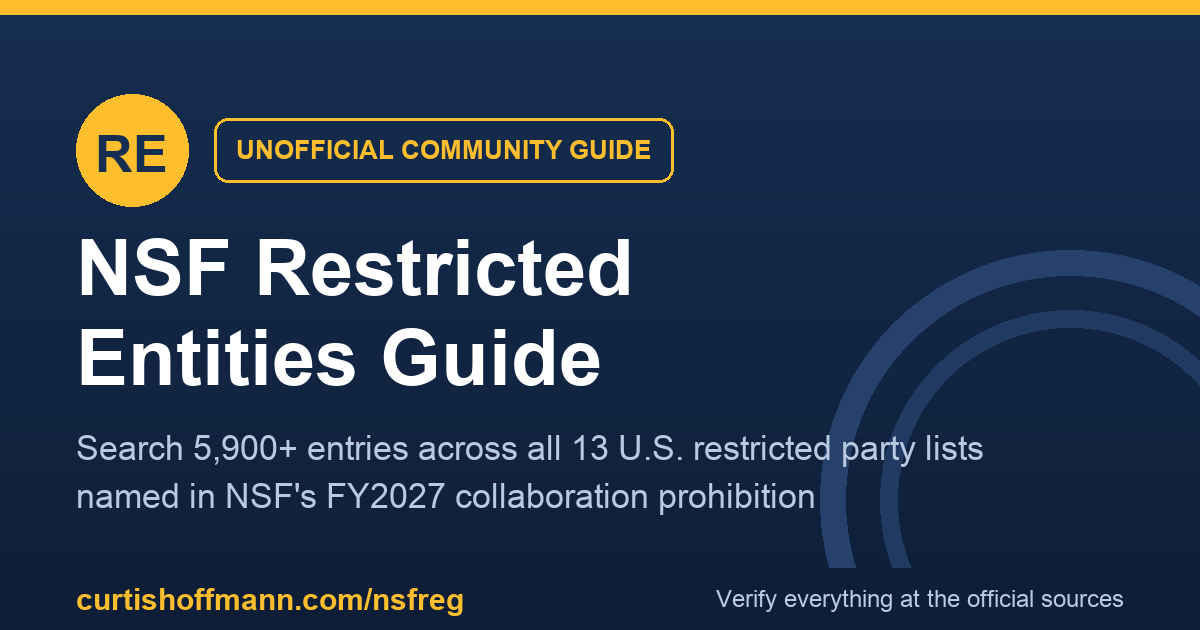
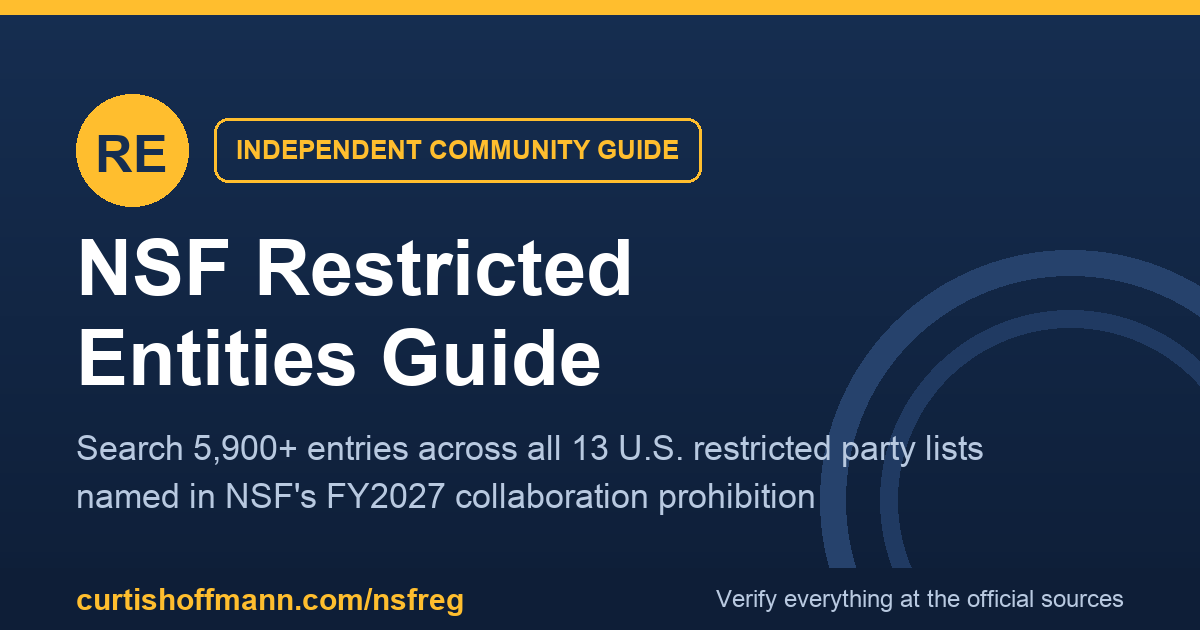
Replace 'unofficial' with 'independent' sitewide; regenerate OG card

Changed region(s): [[0.185, 0.181, 0.5858, 0.3016]]

diff --git a/about.html b/about.html
@@ -3,8 +3,8 @@
 <head>
 <meta charset="utf-8">
 <meta name="viewport" content="width=device-width, initial-scale=1">
-<title>About &amp; Data — NSF Prohibition Guide (Unofficial)</title>
-<meta name="description" content="How this unofficial guide was built: per-list snapshot dates, extraction methodology, known limitations, and the official sources every result should be verified against.">
+<title>About &amp; Data — NSF Prohibition Guide (Independent)</title>
+<meta name="description" content="How this independent guide was built: per-list snapshot dates, extraction methodology, known limitations, and the official sources every result should be verified against.">
 <link rel="stylesheet" href="assets/styles.css?v=20260710b">
 <link rel="canonical" href="https://curtishoffmann.com/nsfreg/about.html">
 <meta name="author" content="Curtis Hoffmann">
@@ -12,15 +12,15 @@
 <meta property="og:type" content="website">
 <meta property="og:url" content="https://curtishoffmann.com/nsfreg/about.html">
 <meta property="og:title" content="About the NSF Restricted Entities Guide — data & methodology">
-<meta property="og:description" content="How this unofficial guide was built: per-list snapshot dates, extraction methodology, known limitations, and the official sources every result should be verified against.">
+<meta property="og:description" content="How this independent guide was built: per-list snapshot dates, extraction methodology, known limitations, and the official sources every result should be verified against.">
 <meta property="og:image" content="https://curtishoffmann.com/nsfreg/assets/og-card.png">
 <meta property="og:image:width" content="1200">
 <meta property="og:image:height" content="630">
 <meta property="og:image:alt" content="NSF Restricted Entities Guide — search 5,900+ entries across all 13 U.S. restricted party lists">
-<meta property="og:site_name" content="NSF Restricted Entities Guide (Unofficial)">
+<meta property="og:site_name" content="NSF Restricted Entities Guide (Independent)">
 <meta name="twitter:card" content="summary_large_image">
 <meta name="twitter:title" content="About the NSF Restricted Entities Guide — data & methodology">
-<meta name="twitter:description" content="How this unofficial guide was built: per-list snapshot dates, extraction methodology, known limitations, and the official sources every result should be verified against.">
+<meta name="twitter:description" content="How this independent guide was built: per-list snapshot dates, extraction methodology, known limitations, and the official sources every result should be verified against.">
 <meta name="twitter:image" content="https://curtishoffmann.com/nsfreg/assets/og-card.png">
 <link rel="icon" href="assets/favicon.svg" type="image/svg+xml">
 <link rel="icon" href="assets/favicon-32.png" sizes="32x32" type="image/png">
@@ -59,7 +59,7 @@
 <div class="page-head">
   <div class="wrap">
     <h1>About this site &amp; its data</h1>
-    <p>An unofficial guide built to make one tedious thing easy: understanding which entities fall under NSF's forthcoming collaboration prohibition, and where the authoritative answers live.</p>
+    <p>An independent guide built to make one tedious thing easy: understanding which entities fall under NSF's forthcoming collaboration prohibition, and where the authoritative answers live.</p>
   </div>
 </div>
 
@@ -115,7 +115,7 @@
     <div class="cols">
       <div>
         <h2>About this site</h2>
-        <p>An unofficial, community-built guide to help NSF-affiliated researchers and administrators understand and prepare for NSF's forthcoming prohibition on collaborations with restricted entities. Not affiliated with, or endorsed by, the U.S. National Science Foundation or any federal agency. Nothing here is legal advice.</p>
+        <p>A community-built guide to help NSF-affiliated researchers and administrators understand and prepare for NSF's forthcoming prohibition on collaborations with restricted entities. Not affiliated with, or endorsed by, the U.S. National Science Foundation or any federal agency. Nothing here is legal advice.</p>
         <p>Project led by <a href="https://curtishoffmann.com" target="_blank" rel="noopener">Curtis Hoffmann</a>.</p>
       </div>
       <div>

diff --git a/index.html b/index.html
@@ -3,7 +3,7 @@
 <head>
 <meta charset="utf-8">
 <meta name="viewport" content="width=device-width, initial-scale=1">
-<title>Search Restricted Entities — NSF Prohibition Guide (Unofficial)</title>
+<title>Search Restricted Entities — NSF Prohibition Guide (Independent)</title>
 <meta name="description" content="Free searchable guide to the U.S. restricted party lists in NSF's July 2026 Dear Colleague Letter. Check collaborators, appointments, and funders across 5,900+ entries from the Entity List, Sec. 1260H, UFLPA, and more.">
 <link rel="stylesheet" href="assets/styles.css?v=20260710b">
 <link rel="canonical" href="https://curtishoffmann.com/nsfreg/">
@@ -17,7 +17,7 @@
 <meta property="og:image:width" content="1200">
 <meta property="og:image:height" content="630">
 <meta property="og:image:alt" content="NSF Restricted Entities Guide — search 5,900+ entries across all 13 U.S. restricted party lists">
-<meta property="og:site_name" content="NSF Restricted Entities Guide (Unofficial)">
+<meta property="og:site_name" content="NSF Restricted Entities Guide (Independent)">
 <meta name="twitter:card" content="summary_large_image">
 <meta name="twitter:title" content="NSF Restricted Entities Guide — search all 13 U.S. restricted party lists">
 <meta name="twitter:description" content="Free searchable guide to the U.S. restricted party lists in NSF's July 2026 Dear Colleague Letter. Check collaborators, appointments, and funders across 5,900+ entries from the Entity List, Sec. 1260H, UFLPA, and more.">
@@ -30,9 +30,9 @@
 {
   "@context": "https://schema.org",
   "@type": "WebSite",
-  "name": "NSF Restricted Entities Guide (Unofficial)",
+  "name": "NSF Restricted Entities Guide (Independent)",
   "url": "https://curtishoffmann.com/nsfreg/",
-  "description": "Unofficial searchable guide to the U.S. restricted party lists covered by NSF's July 2026 prohibition on collaborations with restricted entities.",
+  "description": "Independent searchable guide to the U.S. restricted party lists covered by NSF's July 2026 prohibition on collaborations with restricted entities.",
   "author": {"@type": "Person", "name": "Curtis Hoffmann", "url": "https://curtishoffmann.com"},
   "potentialAction": {
     "@type": "SearchAction",
@@ -130,7 +130,7 @@
     <div class="cols">
       <div>
         <h2>About this site</h2>
-        <p>An unofficial, community-built guide to help NSF-affiliated researchers and administrators understand and prepare for NSF's forthcoming prohibition on collaborations with restricted entities. Not affiliated with, or endorsed by, the U.S. National Science Foundation or any federal agency. Nothing here is legal advice.</p>
+        <p>A community-built guide to help NSF-affiliated researchers and administrators understand and prepare for NSF's forthcoming prohibition on collaborations with restricted entities. Not affiliated with, or endorsed by, the U.S. National Science Foundation or any federal agency. Nothing here is legal advice.</p>
         <p>Project led by <a href="https://curtishoffmann.com" target="_blank" rel="noopener">Curtis Hoffmann</a>.</p>
       </div>
       <div>

diff --git a/faq.html b/faq.html
@@ -3,7 +3,7 @@
 <head>
 <meta charset="utf-8">
 <meta name="viewport" content="width=device-width, initial-scale=1">
-<title>FAQ — NSF Prohibition Guide (Unofficial)</title>
+<title>FAQ — NSF Prohibition Guide (Independent)</title>
 <meta name="description" content="When does NSF's restricted-entity prohibition take effect? What counts as collaboration? What must be certified? Plain-language answers for NSF-funded researchers and administrators.">
 <link rel="stylesheet" href="assets/styles.css?v=20260710b">
 <link rel="canonical" href="https://curtishoffmann.com/nsfreg/faq.html">
@@ -17,7 +17,7 @@
 <meta property="og:image:width" content="1200">
 <meta property="og:image:height" content="630">
 <meta property="og:image:alt" content="NSF Restricted Entities Guide — search 5,900+ entries across all 13 U.S. restricted party lists">
-<meta property="og:site_name" content="NSF Restricted Entities Guide (Unofficial)">
+<meta property="og:site_name" content="NSF Restricted Entities Guide (Independent)">
 <meta name="twitter:card" content="summary_large_image">
 <meta name="twitter:title" content="NSF restricted entities prohibition — FAQ for researchers">
 <meta name="twitter:description" content="When does NSF's restricted-entity prohibition take effect? What counts as collaboration? What must be certified? Plain-language answers for NSF-funded researchers and administrators.">
@@ -173,7 +173,7 @@
 
     <details class="faq">
       <summary>Is this site affiliated with NSF?</summary>
-      <div class="body"><p><strong>No.</strong> This is an unofficial, community-built guide. It exists because checking 13 lists across 7 agencies is genuinely tedious, and researchers deserve a fast way to orient themselves. The official word is always the <a href="https://www.nsf.gov/funding/information/dcl-prohibition-collaborations-entities-us-prohibited-party" target="_blank" rel="noopener">DCL</a>, the forthcoming guidance, and the list-owning agencies. See <a href="about.html">About &amp; Data</a> for how this site is built and its limitations.</p></div>
+      <div class="body"><p><strong>No.</strong> This is an independent, community-built guide. It exists because checking 13 lists across 7 agencies is genuinely tedious, and researchers deserve a fast way to orient themselves. The official word is always the <a href="https://www.nsf.gov/funding/information/dcl-prohibition-collaborations-entities-us-prohibited-party" target="_blank" rel="noopener">DCL</a>, the forthcoming guidance, and the list-owning agencies. See <a href="about.html">About &amp; Data</a> for how this site is built and its limitations.</p></div>
     </details>
 
   </div>
@@ -184,7 +184,7 @@
     <div class="cols">
       <div>
         <h2>About this site</h2>
-        <p>An unofficial, community-built guide to help NSF-affiliated researchers and administrators understand and prepare for NSF's forthcoming prohibition on collaborations with restricted entities. Not affiliated with, or endorsed by, the U.S. National Science Foundation or any federal agency. Nothing here is legal advice.</p>
+        <p>A community-built guide to help NSF-affiliated researchers and administrators understand and prepare for NSF's forthcoming prohibition on collaborations with restricted entities. Not affiliated with, or endorsed by, the U.S. National Science Foundation or any federal agency. Nothing here is legal advice.</p>
         <p>Project led by <a href="https://curtishoffmann.com" target="_blank" rel="noopener">Curtis Hoffmann</a>.</p>
       </div>
       <div>

diff --git a/checklist.html b/checklist.html
@@ -3,7 +3,7 @@
 <head>
 <meta charset="utf-8">
 <meta name="viewport" content="width=device-width, initial-scale=1">
-<title>Compliance Checklist — NSF Prohibition Guide (Unofficial)</title>
+<title>Compliance Checklist — NSF Prohibition Guide (Independent)</title>
 <meta name="description" content="Step-by-step preparation checklists for PIs, senior/key personnel, and research administrators ahead of NSF's FY2027 prohibition on collaborations with restricted entities.">
 <link rel="stylesheet" href="assets/styles.css?v=20260710b">
 <link rel="canonical" href="https://curtishoffmann.com/nsfreg/checklist.html">
@@ -17,7 +17,7 @@
 <meta property="og:image:width" content="1200">
 <meta property="og:image:height" content="630">
 <meta property="og:image:alt" content="NSF Restricted Entities Guide — search 5,900+ entries across all 13 U.S. restricted party lists">
-<meta property="og:site_name" content="NSF Restricted Entities Guide (Unofficial)">
+<meta property="og:site_name" content="NSF Restricted Entities Guide (Independent)">
 <meta name="twitter:card" content="summary_large_image">
 <meta name="twitter:title" content="Compliance checklist for NSF's FY2027 restricted-entity prohibition">
 <meta name="twitter:description" content="Step-by-step preparation checklists for PIs, senior/key personnel, and research administrators ahead of NSF's FY2027 prohibition on collaborations with restricted entities.">
@@ -184,7 +184,7 @@
     <div class="cols">
       <div>
         <h2>About this site</h2>
-        <p>An unofficial, community-built guide to help NSF-affiliated researchers and administrators understand and prepare for NSF's forthcoming prohibition on collaborations with restricted entities. Not affiliated with, or endorsed by, the U.S. National Science Foundation or any federal agency. Nothing here is legal advice.</p>
+        <p>A community-built guide to help NSF-affiliated researchers and administrators understand and prepare for NSF's forthcoming prohibition on collaborations with restricted entities. Not affiliated with, or endorsed by, the U.S. National Science Foundation or any federal agency. Nothing here is legal advice.</p>
         <p>Project led by <a href="https://curtishoffmann.com" target="_blank" rel="noopener">Curtis Hoffmann</a>.</p>
       </div>
       <div>

diff --git a/lists.html b/lists.html
@@ -3,7 +3,7 @@
 <head>
 <meta charset="utf-8">
 <meta name="viewport" content="width=device-width, initial-scale=1">
-<title>The 13 Restricted Party Lists — NSF Prohibition Guide (Unofficial)</title>
+<title>The 13 Restricted Party Lists — NSF Prohibition Guide (Independent)</title>
 <meta name="description" content="Plain-language explainers for every restricted party list in Appendix A of NSF's DCL: legal basis, maintaining agency, what entities appear, and links to the authoritative sources.">
 <link rel="stylesheet" href="assets/styles.css?v=20260710b">
 <link rel="canonical" href="https://curtishoffmann.com/nsfreg/lists.html">
@@ -17,7 +17,7 @@
 <meta property="og:image:width" content="1200">
 <meta property="og:image:height" content="630">
 <meta property="og:image:alt" content="NSF Restricted Entities Guide — search 5,900+ entries across all 13 U.S. restricted party lists">
-<meta property="og:site_name" content="NSF Restricted Entities Guide (Unofficial)">
+<meta property="og:site_name" content="NSF Restricted Entities Guide (Independent)">
 <meta name="twitter:card" content="summary_large_image">
 <meta name="twitter:title" content="The 13 U.S. restricted party lists in NSF's prohibition, one by one">
 <meta name="twitter:description" content="Plain-language explainers for every restricted party list in Appendix A of NSF's DCL: legal basis, maintaining agency, what entities appear, and links to the authoritative sources.">
@@ -85,7 +85,7 @@
     <div class="cols">
       <div>
         <h2>About this site</h2>
-        <p>An unofficial, community-built guide to help NSF-affiliated researchers and administrators understand and prepare for NSF's forthcoming prohibition on collaborations with restricted entities. Not affiliated with, or endorsed by, the U.S. National Science Foundation or any federal agency. Nothing here is legal advice.</p>
+        <p>A community-built guide to help NSF-affiliated researchers and administrators understand and prepare for NSF's forthcoming prohibition on collaborations with restricted entities. Not affiliated with, or endorsed by, the U.S. National Science Foundation or any federal agency. Nothing here is legal advice.</p>
         <p>Project led by <a href="https://curtishoffmann.com" target="_blank" rel="noopener">Curtis Hoffmann</a>.</p>
       </div>
       <div>

diff --git a/policy.html b/policy.html
@@ -3,7 +3,7 @@
 <head>
 <meta charset="utf-8">
 <meta name="viewport" content="width=device-width, initial-scale=1">
-<title>The Policy, Explained — NSF Prohibition Guide (Unofficial)</title>
+<title>The Policy, Explained — NSF Prohibition Guide (Independent)</title>
 <meta name="description" content="What NSF's July 8, 2026 Dear Colleague Letter prohibits, who it applies to, what AORs and senior/key personnel must certify, and the key FY2027 dates — explained for researchers.">
 <link rel="stylesheet" href="assets/styles.css?v=20260710b">
 <link rel="canonical" href="https://curtishoffmann.com/nsfreg/policy.html">
@@ -17,7 +17,7 @@
 <meta property="og:image:width" content="1200">
 <meta property="og:image:height" content="630">
 <meta property="og:image:alt" content="NSF Restricted Entities Guide — search 5,900+ entries across all 13 U.S. restricted party lists">
-<meta property="og:site_name" content="NSF Restricted Entities Guide (Unofficial)">
+<meta property="og:site_name" content="NSF Restricted Entities Guide (Independent)">
 <meta name="twitter:card" content="summary_large_image">
 <meta name="twitter:title" content="NSF's FY2027 restricted-entity prohibition, explained in plain language">
 <meta name="twitter:description" content="What NSF's July 8, 2026 Dear Colleague Letter prohibits, who it applies to, what AORs and senior/key personnel must certify, and the key FY2027 dates — explained for researchers.">
@@ -164,7 +164,7 @@
     <div class="cols">
       <div>
         <h2>About this site</h2>
-        <p>An unofficial, community-built guide to help NSF-affiliated researchers and administrators understand and prepare for NSF's forthcoming prohibition on collaborations with restricted entities. Not affiliated with, or endorsed by, the U.S. National Science Foundation or any federal agency. Nothing here is legal advice.</p>
+        <p>A community-built guide to help NSF-affiliated researchers and administrators understand and prepare for NSF's forthcoming prohibition on collaborations with restricted entities. Not affiliated with, or endorsed by, the U.S. National Science Foundation or any federal agency. Nothing here is legal advice.</p>
         <p>Project led by <a href="https://curtishoffmann.com" target="_blank" rel="noopener">Curtis Hoffmann</a>.</p>
       </div>
       <div>

diff --git a/pipeline/apply_site_updates.py b/pipeline/apply_site_updates.py
@@ -36,7 +36,7 @@ PAGES = {
     },
     "about.html": {
         "og_title": "About the NSF Restricted Entities Guide — data & methodology",
-        "desc": "How this unofficial guide was built: per-list snapshot dates, extraction methodology, known limitations, and the official sources every result should be verified against.",
+        "desc": "How this independent guide was built: per-list snapshot dates, extraction methodology, known limitations, and the official sources every result should be verified against.",
     },
 }
 
@@ -79,9 +79,9 @@ JSONLD_INDEX = """<script type="application/ld+json">
 {
   "@context": "https://schema.org",
   "@type": "WebSite",
-  "name": "NSF Restricted Entities Guide (Unofficial)",
+  "name": "NSF Restricted Entities Guide (Independent)",
   "url": "%s/",
-  "description": "Unofficial searchable guide to the U.S. restricted party lists covered by NSF's July 2026 prohibition on collaborations with restricted entities.",
+  "description": "Independent searchable guide to the U.S. restricted party lists covered by NSF's July 2026 prohibition on collaborations with restricted entities.",
   "author": {"@type": "Person", "name": "Curtis Hoffmann", "url": "https://curtishoffmann.com"},
   "potentialAction": {
     "@type": "SearchAction",
@@ -106,7 +106,7 @@ def head_block(page, cfg):
         '<meta property="og:image:width" content="1200">',
         '<meta property="og:image:height" content="630">',
         '<meta property="og:image:alt" content="NSF Restricted Entities Guide — search 5,900+ entries across all 13 U.S. restricted party lists">',
-        '<meta property="og:site_name" content="NSF Restricted Entities Guide (Unofficial)">',
+        '<meta property="og:site_name" content="NSF Restricted Entities Guide (Independent)">',
         '<meta name="twitter:card" content="summary_large_image">',
         f'<meta name="twitter:title" content="{cfg["og_title"]}">',
         f'<meta name="twitter:description" content="{cfg["desc"]}">',

diff --git a/pipeline/build_assets.py b/pipeline/build_assets.py
@@ -84,11 +84,11 @@ def make_og_card(out):
     d.ellipse((cx - r, cy - r, cx + r, cy + r), fill=GOLD)
     d.text((cx, cy + 4), "RE", font=font(FONT_BOLD, 52), fill=NAVY, anchor="mm")
 
-    # unofficial tag
+    # independent tag
     tag_f = font(FONT_BOLD, 26)
-    tw = d.textlength("UNOFFICIAL COMMUNITY GUIDE", font=tag_f)
+    tw = d.textlength("INDEPENDENT COMMUNITY GUIDE", font=tag_f)
     d.rounded_rectangle((214, 118, 214 + tw + 44, 182), radius=14, outline=GOLD, width=3)
-    d.text((214 + 22, 150), "UNOFFICIAL COMMUNITY GUIDE", font=tag_f, fill=GOLD, anchor="lm")
+    d.text((214 + 22, 150), "INDEPENDENT COMMUNITY GUIDE", font=tag_f, fill=GOLD, anchor="lm")
 
     # title
     t1 = font(FONT_BOLD, 78)

diff --git a/README.md b/README.md
@@ -1,4 +1,4 @@
-# NSF Restricted Entities Guide (Unofficial)
+# NSF Restricted Entities Guide (Independent)
 
 **Live site: <https://curtishoffmann.com/nsfreg/>**
 
@@ -10,7 +10,7 @@ in one place. Built for NSF-affiliated researchers and research administrators.
 Project led by [Curtis Hoffmann](https://curtishoffmann.com) —
 [share your feedback](https://forms.gle/FavcasB5Feao7jVG6).
 
-> **Unofficial.** This site is a community resource — not an NSF or U.S.
+> **Independent.** This site is a community resource — not an NSF or U.S.
 > government website, not a compliance determination, and not legal advice.
 > Every page links to the authoritative sources.
 